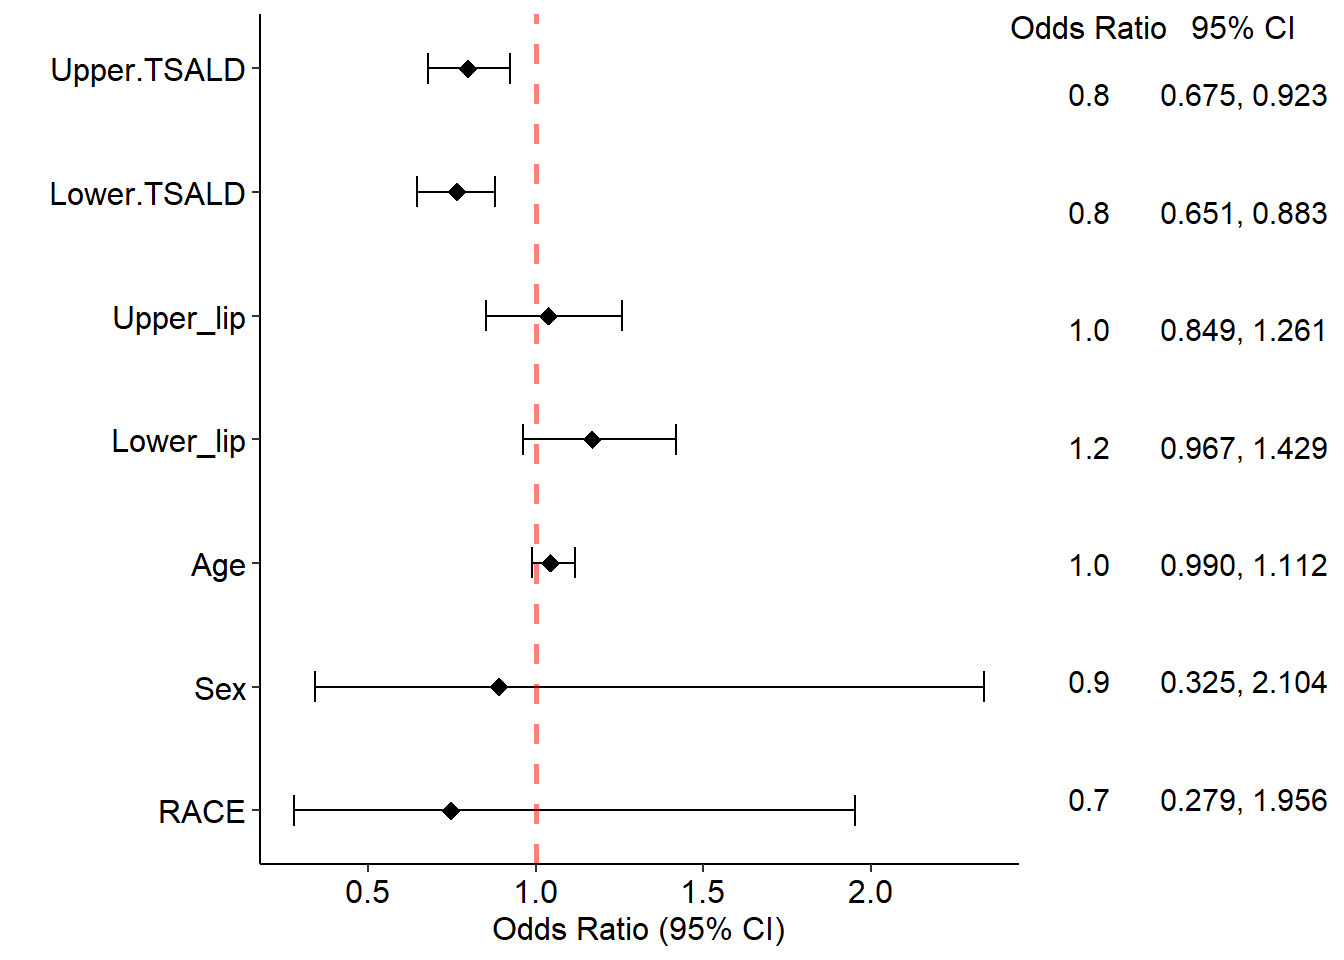
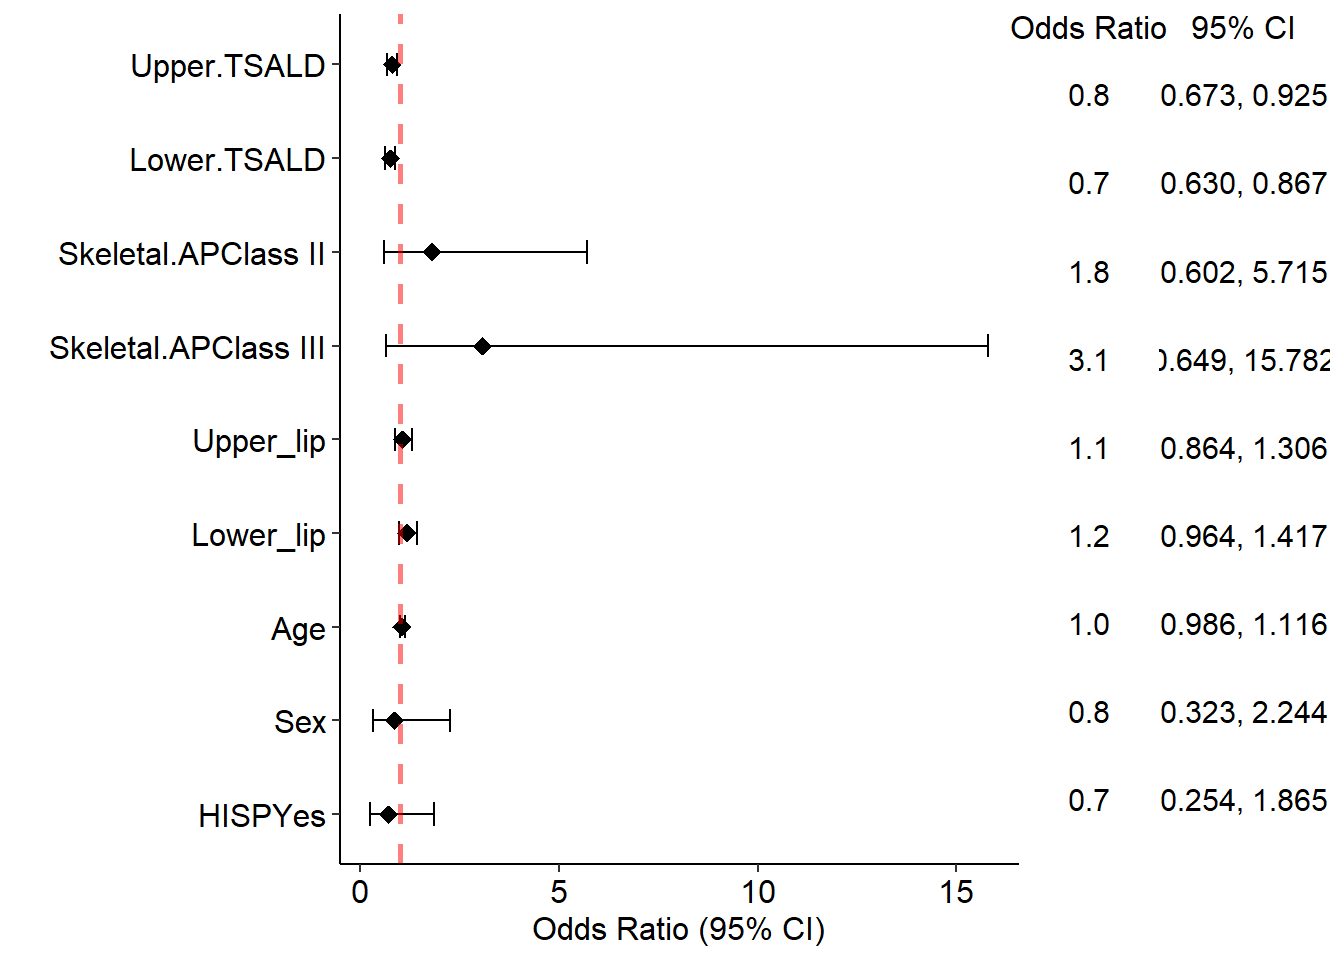
2/23/2023

diff --git a/docs/2022_Dec2_Kelley.html b/docs/2022_Dec2_Kelley.html
@@ -538,15 +538,15 @@ project makes it easier to run your code on other machines.</p>
 <div class="panel panel-default">
 <div class="panel-heading">
 <p class="panel-title">
-<a data-toggle="collapse" data-parent="#workflowr-checks" href="#strongRepositoryversionstrongahrefhttpsgithubcomhan16Collaborationstree475f3103552961135b41b4686d577ee7a2b26a2etargetblank475f310a">
+<a data-toggle="collapse" data-parent="#workflowr-checks" href="#strongRepositoryversionstrongahrefhttpsgithubcomhan16Collaborationstree4d837dcc1e96f2f601bd08109dc78e93a261623atargetblank4d837dca">
 <span class="glyphicon glyphicon-ok text-success"
 aria-hidden="true"></span> <strong>Repository version:</strong>
-<a href="https://github.com/han16/Collaborations/tree/475f3103552961135b41b4686d577ee7a2b26a2e" target="_blank">475f310</a>
+<a href="https://github.com/han16/Collaborations/tree/4d837dcc1e96f2f601bd08109dc78e93a261623a" target="_blank">4d837dc</a>
 </a>
 </p>
 </div>
 <div
[2 lines of base64/hex data omitted]
 class="panel-collapse collapse">
 <div class="panel-body">
 <p>
@@ -556,7 +556,7 @@ reproducibility.
 </p>
 <p>
 The results in this page were generated with repository version
-<a href="https://github.com/han16/Collaborations/tree/475f3103552961135b41b4686d577ee7a2b26a2e" target="_blank">475f310</a>.
+<a href="https://github.com/han16/Collaborations/tree/4d837dcc1e96f2f601bd08109dc78e93a261623a" target="_blank">4d837dc</a>.
 See the <em>Past versions</em> tab to see a history of the changes made
 to the R Markdown and HTML files.
 </p>
@@ -620,6 +620,40 @@ Message
 </tr>
 </thead>
 <tbody>
+<tr>
+<td>
+Rmd
+</td>
+<td>
+<a href="https://github.com/han16/Collaborations/blob/4d837dcc1e96f2f601bd08109dc78e93a261623a/analysis/2022_Dec2_Kelley.Rmd" target="_blank">4d837dc</a>
+</td>
+<td>
+Han
+</td>
+<td>
+2023-02-23
+</td>
+<td>
+2/23/2023
+</td>
+</tr>
+<tr>
+<td>
+html
+</td>
+<td>
+<a href="https://rawcdn.githack.com/han16/Collaborations/4d837dcc1e96f2f601bd08109dc78e93a261623a/docs/2022_Dec2_Kelley.html" target="_blank">4d837dc</a>
+</td>
+<td>
+Han
+</td>
+<td>
+2023-02-23
+</td>
+<td>
+2/23/2023
+</td>
+</tr>
 <tr>
 <td>
 Rmd
@@ -966,15 +1000,17 @@ class="section level2">
 <h2>Extraction, Upper TSALD, Lower TSALD, and others</h2>
 <div class="datatables html-widget html-fill-item-overflow-hidden html-fill-item" id="htmlwidget-f30d7598595affc4f25a" style="width:100%;height:auto;"></div>
 <script type="application/json" data-for="htmlwidget-f30d7598595affc4f25a">{"x":{"filter":"none","vertical":false,"extensions":["Buttons"],"data":[["1","2","3","4","5","6","7","8","9","10","11","12","13","14","15","16","17","18","19","20","21","22","23","24","25","26","27","28","29","30","31","32","33","34","35","36","37","38","39","40","41","42","43","44","45","46","47","48","49","50","51","52","53","54","55","56","57","58","59","60","61","62","63","64","65","66","67","68","69","70","71","72","73","74","75","76","77","78","79","80","81","82","83","84","85","86","87","88","89","90","91","92","93","94","95","96","97","98","99","100","101","102","103","104","105","106","107","108","109","110","111","112","113","114","115"],[0,0,0,0,0,0,0,0,0,0,0,0,0,0,0,0,0,0,0,0,0,0,0,0,0,0,0,0,0,0,0,0,0,0,0,0,0,0,0,0,0,0,0,0,0,0,0,0,0,0,0,0,0,0,0,0,0,0,0,0,0,0,0,0,0,1,1,1,1,1,1,1,1,1,1,1,1,1,1,1,1,1,1,1,1,1,1,1,1,1,1,1,1,1,1,1,1,1,1,1,1,1,1,1,1,1,1,1,1,1,1,1,1,1,1],[-13,-3.3,-0.4,-2,-7,-0.6,-6.8,-0.8,-6.9,-3.4,-2.5,-9.6,-5.6,-3.7,-5.8,-2.8,-1.7,-6.5,-2.9,-2,-3.8,-0.5,-1.9,-5.4,-6,-1,-0.6,-5.6,-1.4,-0.7,-0.6,-5.1,-4.2,-3.7,-3.6,-2,-2.2,-1.7,-4.2,-0.6,-4,-3.8,-2.6,-4.3,-8.7,-2,-1.6,-3,-2.1,-0.6,-0.4,-2.4,-1.8,-1,-4.3,-4.2,-3.6,-1.3,-4,-0.3,-3.2,-2.2,-1.2,-2.4,-4.1,-4,-4,-16.3,-7,-13.2,-12,-1,-8.7,-1,-10.9,-2.7,-10,-2,-7,-3.8,-2.9,-10.1,-8.1,-13.2,-6,-8.2,-6.6,-12,-6.3,-9.8,-2.5,-3,-2.5,-1.1,-8.5,-1.4,-3.3,-2.2,-3.7,-9,-4,-4,-3,-2,-4.3,-3.6,-13,-0.6,-11,-3.1,-7.7,-6.5,-3,-0.4,-12.8],["-8","-7.4","-7.2","-7.1","-7","-7","-6.9","-6.5","-6.1","-5.7","-5.5","-5.3","-5.3","-5.2","-4.7","-4.5","-4.4","-4.3","-4.3","-4","-3.9","-3.5","-3.3","-3.1","-3","-3","-3","-2.9","-2.9","-2.5","-2.4","-2.2","-2.2","-2.1","-2.1","-2","-1.9","-1.9","-1.7","-1.6","-1.3","-1.3","-1.3","-1.2","-1","-1","-0.8","0","0.1","0.1","1.2","1.3","1.3","1.3","1.8","3","3.1","3.2","3.5","4.1","4.3","4.6","4.6","7","9","-15","-14.4","-13.3","-10.9","-10.7","-10","-10","-9","-9","-8.9","-8.5","-8.4","-8","-7.8","-7.7","-7.6","-7.4","-6.7","-6.5","-6.5","-6.4","-6.1","-6","-5.6","-5.5","-5.2","-5","-5","-4.6","-4.5","-4.4","-4.2","-3.2","-3.1","-3","-3","-3","-3","-3","-2.9","-2.5","-2.3","-2.2","-2","-1.6","-1.2","-0.4","0","0.4","0.6"],["Class I","Class II","Class II","Class I","Class I","Class II","Class II","Class III","Class II","Class I","Class II","Class I","Class II","Class II","Class II","Class I","Class II","Class III","Class II","Class II","Class III","Class II","Class II","Class I","Class II","Class II","Class I","Class II","Class I","Class II","Class II","Class II","Class II","Class I","Class I","Class I","Class II","Class I","Class I","Class I","Class II","Class I","Class III","Class II","Class III","Class III","Class II","Class I","Class II","Class II","Class II","Class II","Class III","Class II","Class III","Class III","Class II","Class III","Class I","Class II","Class III","Class III","Class II","Class II","Class III","Class II","Class I","Class I","Class II","Class II","Class I","Class III","Class II","Class II","Class II","Class II","Class III","Class II","Class II","Class I","Class I","Class II","Class I","Class II","Class II","Class I","Class II","Class II","Class II","Class III","Class II","Class III","Class II","Class III","Class I","Class I","Class II","Class I","Class II","Class II","Class II","Class II","Class II","Class III","Class II","Class II","Class III","Class II","Class II","Class II","Class II","Class I","Class I","Class II","Class II"],["0","2.2","0","1","0","-6","-0.5","-9.6","-0.8","-1.9","-2.1","-2.1","-2.6","-4.5","3.4","-5.1","-1.1","-1","-2.2","-2.3","4","-5.2","-0.1","0.9","-1","5.1","-4.3","0","-3.4","0.4","-1.5","4.2","1","1.5","-3","-7","-8.8","0","-0.4","-0.6","-1.6","-0.9","-7.8","1.1","-8.1","-5.7","8","-2","3.2","-0.9","-2.8","-2.8","0","0.7","-5.6","-6.6","-1.1","-6.7","-0.6","0","-6.4","-9.2","2","3.5","5","-3","1.7","-1.4","-0.5","-0.1","-0.5","-6","3.7","4.9","9.1","1.8","-6.8","-2","5","-3.2","-5.1","1","1.5","6.3","1.6","-3.2","0.2","1","0.8","-3.9","1.3","-4","-1.5","-6","3.3","0.9","-1.7","1.5","4.9","0","0","-2","-2","6.8","3.4","2.3","-6","-1.2","-2.3","2.1","-2.6","4.4","6.1","-3","0"],["3","1.3","0.9","3.2","1","-4.5","2.2","-5.2","0.1","-0.2","-0.4","0.9","0","-1.7","4.5","-2.3","2","0.5","-1.1","-1.4","-2.5","-0.6","0","3.7","-2","3.5","-3.4","3.9","0","-1.9","-1.2","1.7","-0.2","4.7","-4","-6","-11.4","0.4","4.2","3.4","2.3","1.9","-3.8","-0.3","-7.6","-4.1","6","0","2.2","1.8","-1.6","-1.6","-2","5.7","-3.3","-2.4","0.2","-3.8","-0.1","0","-5.8","-3.7","0.9","4.2","16","-1","3.2","3.2","1.7","0.6","4.7","-3.4","6.4","5.3","17.3","2.9","-2.9","2","8.4","-2.6","-1.8","3.1","-2.1","5.9","2.2","-2.2","4.7","0","0.6","-4.7","2.6","-2","3.6","4","0","2.8","-1.3","1.5","0.8","-1","4","1","2","10.3","6.3","2.4","-2","-0.5","-2.7","3.3","-0.9","9.8","6.7","-2.2","1"],[10,13,13,13,13,67,9,13,18,10,13,8,12,15,12,20,14,12,17,28,13,27,13,11,12,16,43,17,12,23,13,12,12,16,17,11,12,12,9,10,14,9,10,12,12,13,13,14,11,13,10,8,9,11,12,13,15,17,27,11,13,7,8,14,7,20,11,22,21,12,15,30,12,11,12,22,9,21,19,13,14,13,12,11,17,14,37,12,13,15,14,12,33,11,16,14,12,35,13,17,13,15,43,16,10,15,16,11,10,12,23,10,11,14,23],[1,2,1,2,1,2,1,2,1,2,2,2,1,1,2,1,2,2,2,2,1,2,2,2,2,2,2,2,2,2,1,1,1,2,2,1,2,1,1,2,1,2,0,2,2,2,1,1,2,2,2,1,1,1,2,1,1,2,2,1,2,2,1,1,1,2,1,1,2,1,2,2,2,1,1,2,1,2,2,1,1,1,2,2,1,2,2,2,2,2,1,2,2,2,1,1,1,1,2,2,2,1,1,1,2,1,2,2,1,1,2,1,1,2,2],["HISP  ","AFRAM ","HISP  ","HISP  ","HISP  ","CAUC  ","HISP  ","CAUC  ","HISP  ","CAUC  ","HISP  ","CAUC  ","OTHER ","HISP  ","AFRAM ","CAUC  ","HISP  ","HISP  ","HISP  ","AFRAM ","UNKN  ","CAUC  ","ASIAN ","CAUC  ","HISP  ","AFRAM ","HISP  ","HISP  ","HISP  ","HISP  ","HISP  ","CAUC  ","HISP  ","HISP  ","ASIAN ","CAUC  ","HISP  ","HISP  ","AFRAM ","HISP  ","CAUC  ","HISP  ","CAUC  ","HISP  ","HISP  ","CAUC  ","OTHER ","OTHER ","HISP  ","HISP  ","HISP  ","CAUC  ","ASIAN ","OTHER ","HISP  ","OTHER ","ASIAN ","CAUC  ","AFRAM ","CAUC  ","HISP  ","HISP  ","ASIAN ","HISP  ","AFRAM ","CAUC  ","HISP  ","OTHER ","CAUC  ","HISP  ","HISP  ","HISP  ","ASIAN ","HISP  ","AFRAM ","HISP  ","OTHER ","HISP  ","AFRAM ","CAUC  ","CAUC  ","HISP  ","CAUC  ","HISP  ","HISP  ","HISP  ","AFRAM ","CAUC  ","HISP  ","HISP  ","CAUC  ","HISP  ","HISP  ","CAUC  ","HISP  ","ASIAN ","HISP  ","ASIAN ","HISP  ","AFRAM ","AFRAM ","CAUC  ","UNKN  ","AFRAM ","HISP  ","HISP  ","HISP  ","HISP  ","OTHER ","AFRAM ","HISP  ","OTHER ","ASIAN ","CAUC  ","OTHER "]],"container":"<table class=\"display\">\n  <thead>\n    <tr>\n      <th> <\/th>\n      <th>Ext<\/th>\n      <th>Upper.TSALD<\/th>\n      <th>Lower.TSALD<\/th>\n      <th>Skeletal.AP<\/th>\n      <th>Upper.lip...E.line<\/th>\n      <th>Lower.lip...E.line<\/th>\n      <th>Age<\/th>\n      <th>Sex<\/th>\n      <th>RACE<\/th>\n    <\/tr>\n  <\/thead>\n<\/table>","options":{"dom":"Blfrtip","buttons":["copy","csv","excel","pdf","print"],"lengthMenu":[[10,25,50,-1],["10","25","50","All"]],"columnDefs":[{"className":"dt-right","targets":[1,2,7,8]},{"orderable":false,"targets":0}],"order":[],"autoWidth":false,"orderClasses":false}},"evals":[],"jsHooks":[]}</script>
-<pre><code>                    OR       2.5 %    97.5 %      p_value
-(Intercept) 0.06430021 0.008543507 0.3827763 0.0043502616
-Upper.TSALD 0.79686988 0.675239006 0.9239780 0.0040601358
-Lower.TSALD 0.76350648 0.644784121 0.8794077 0.0005829789
-Upper_lip   1.03730468 0.852721274 1.2643301 0.7116083999
-Lower_lip   1.16801301 0.960282507 1.4222314 0.1162877453
-Age         1.04354708 0.987644950 1.1108235 0.1415250684
-Sex         0.88948536 0.339601039 2.3432077 0.8107588098
-HISPYes     0.74566569 0.278694839 1.9557776 0.5519070764</code></pre>
+<pre><code>                             OR       2.5 %     97.5 %      p_value
+(Intercept)          0.03941239 0.004467935  0.2690280 0.0017952093
+Upper.TSALD          0.79685084 0.673416869  0.9251213 0.0045352681
+Lower.TSALD          0.74957763 0.630212147  0.8666941 0.0003430423
+Skeletal.APClass II  1.80216304 0.602028881  5.7145443 0.3004469820
+Skeletal.APClass III 3.06593308 0.649472693 15.7822242 0.1635584394
+Upper_lip            1.06099867 0.864270225  1.3060236 0.5670249938
+Lower_lip            1.16781596 0.963604766  1.4173386 0.1086562827
+Age                  1.04518710 0.986336219  1.1163380 0.1483624017
+Sex                  0.84864726 0.323404936  2.2436641 0.7378391727
+HISPYes              0.69848981 0.253911976  1.8649366 0.4770798352</code></pre>
 <p><img src="figure/2022_Dec2_Kelley.Rmd/unnamed-chunk-8-1.png" width="672" style="display: block; margin: auto;" /></p>
 <pre><code>            Upper.TSALD Lower.TSALD   Upper_lip   Lower_lip
 Upper.TSALD   1.0000000  0.36320928 -0.14010813 -0.15290563
